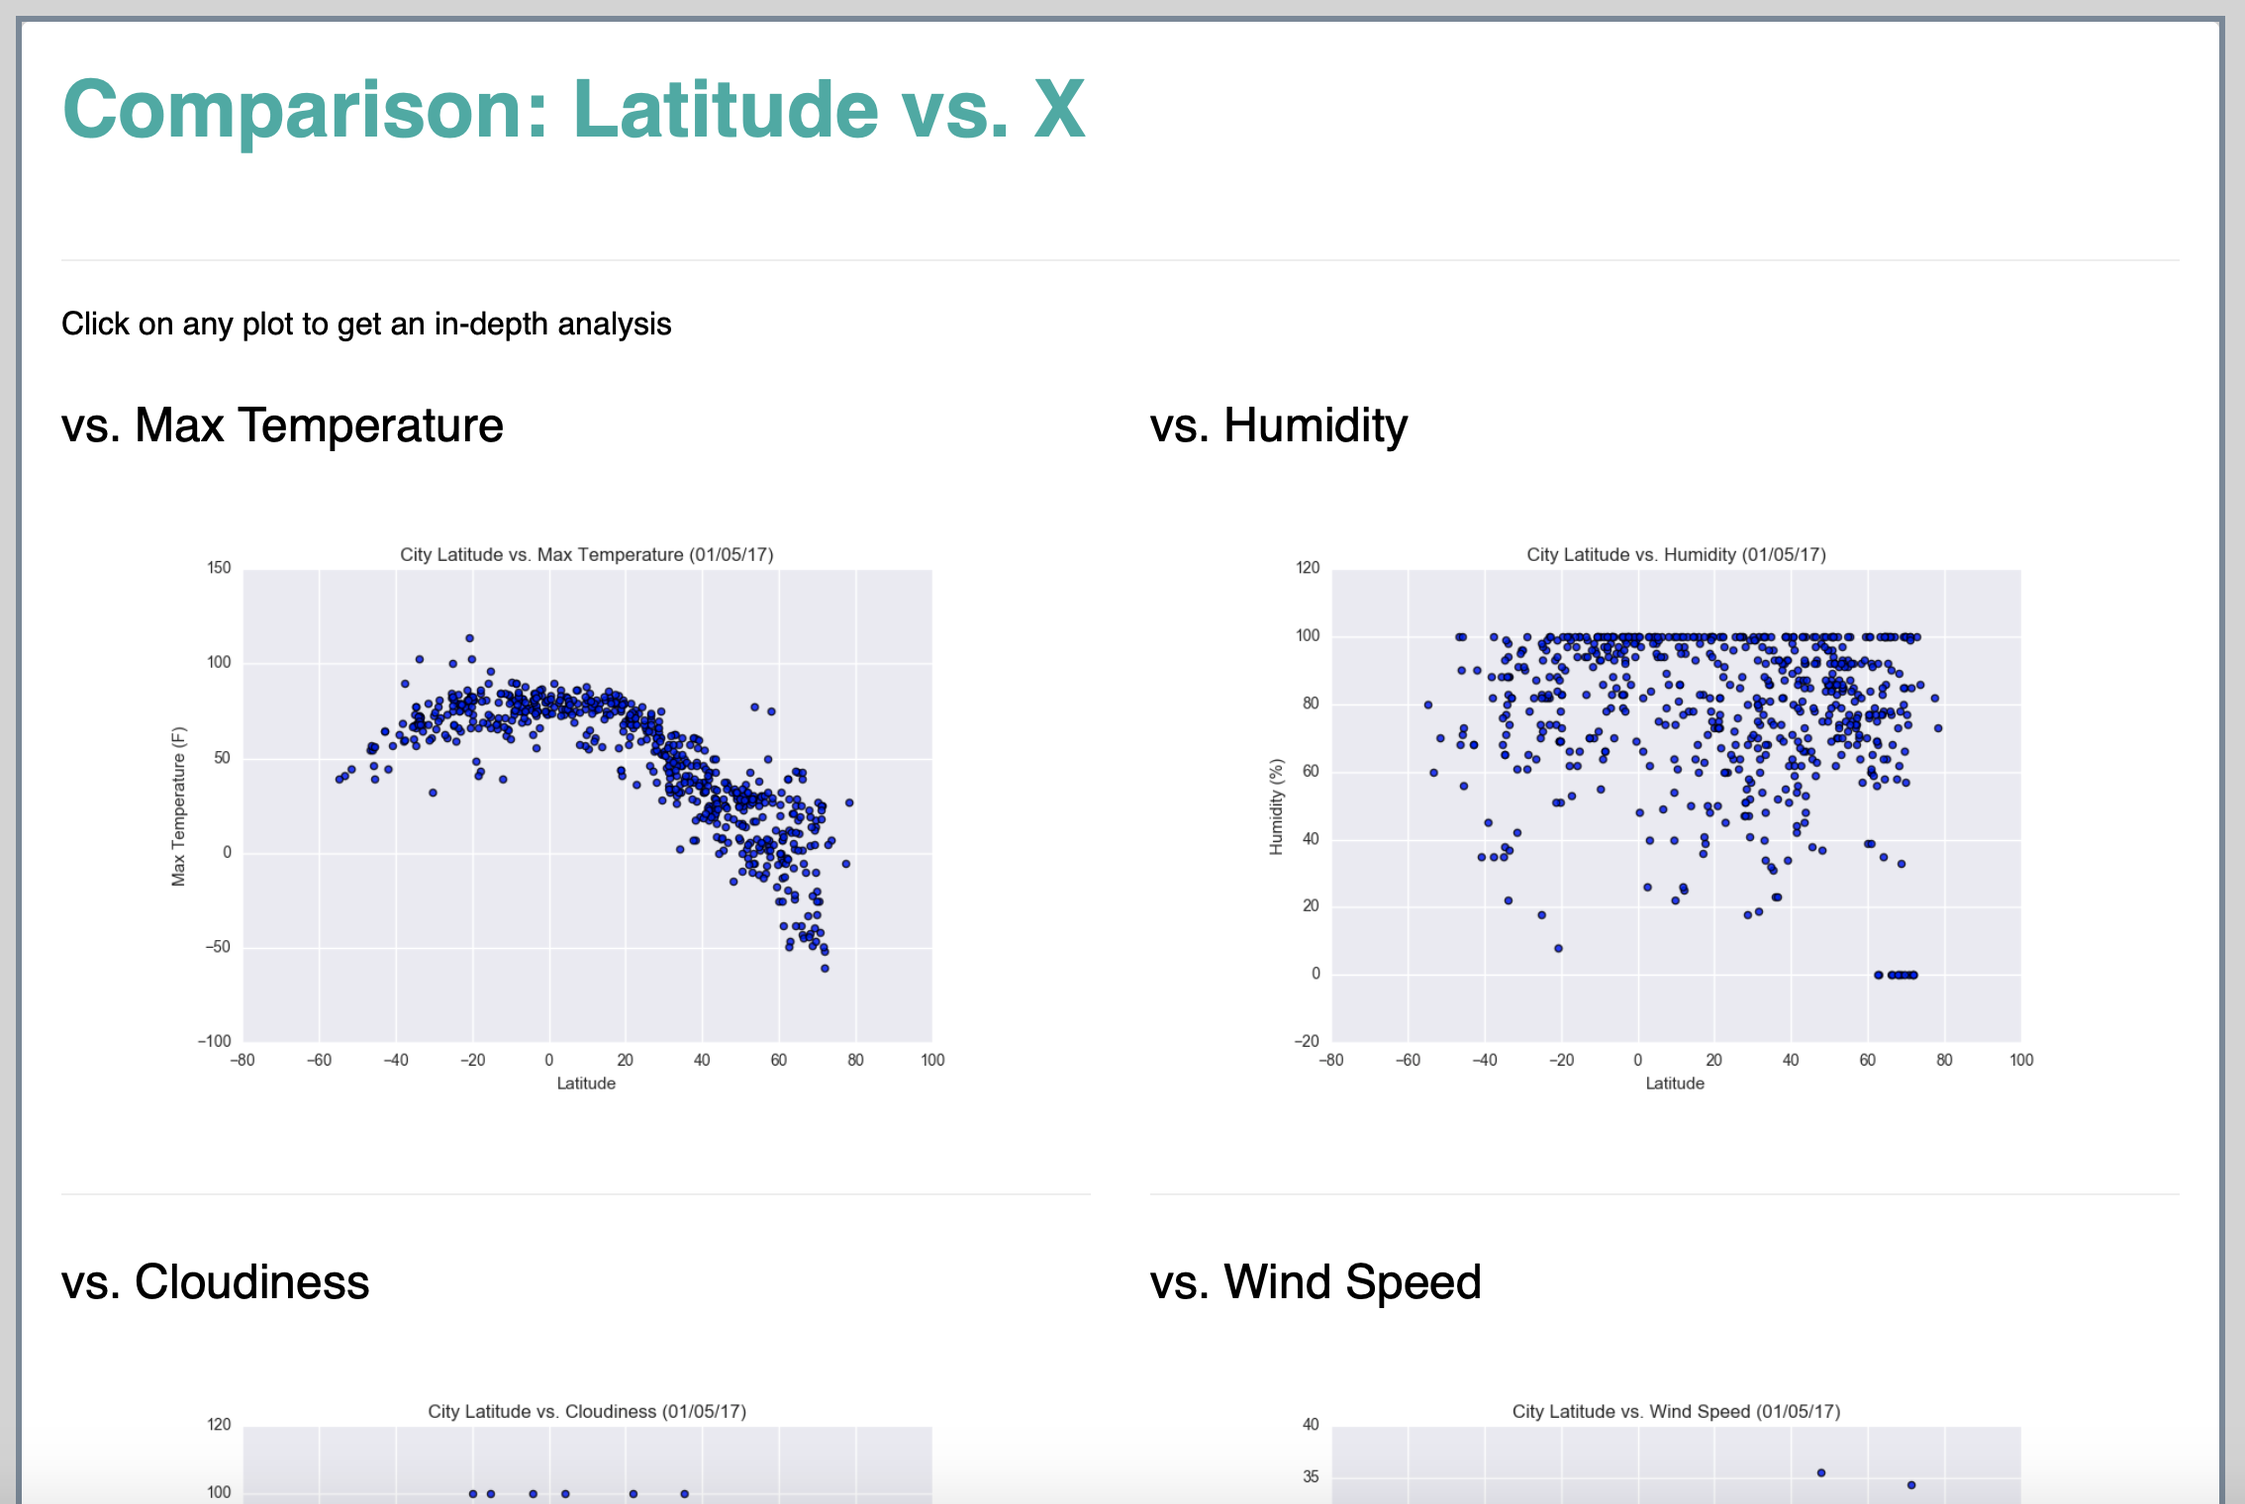
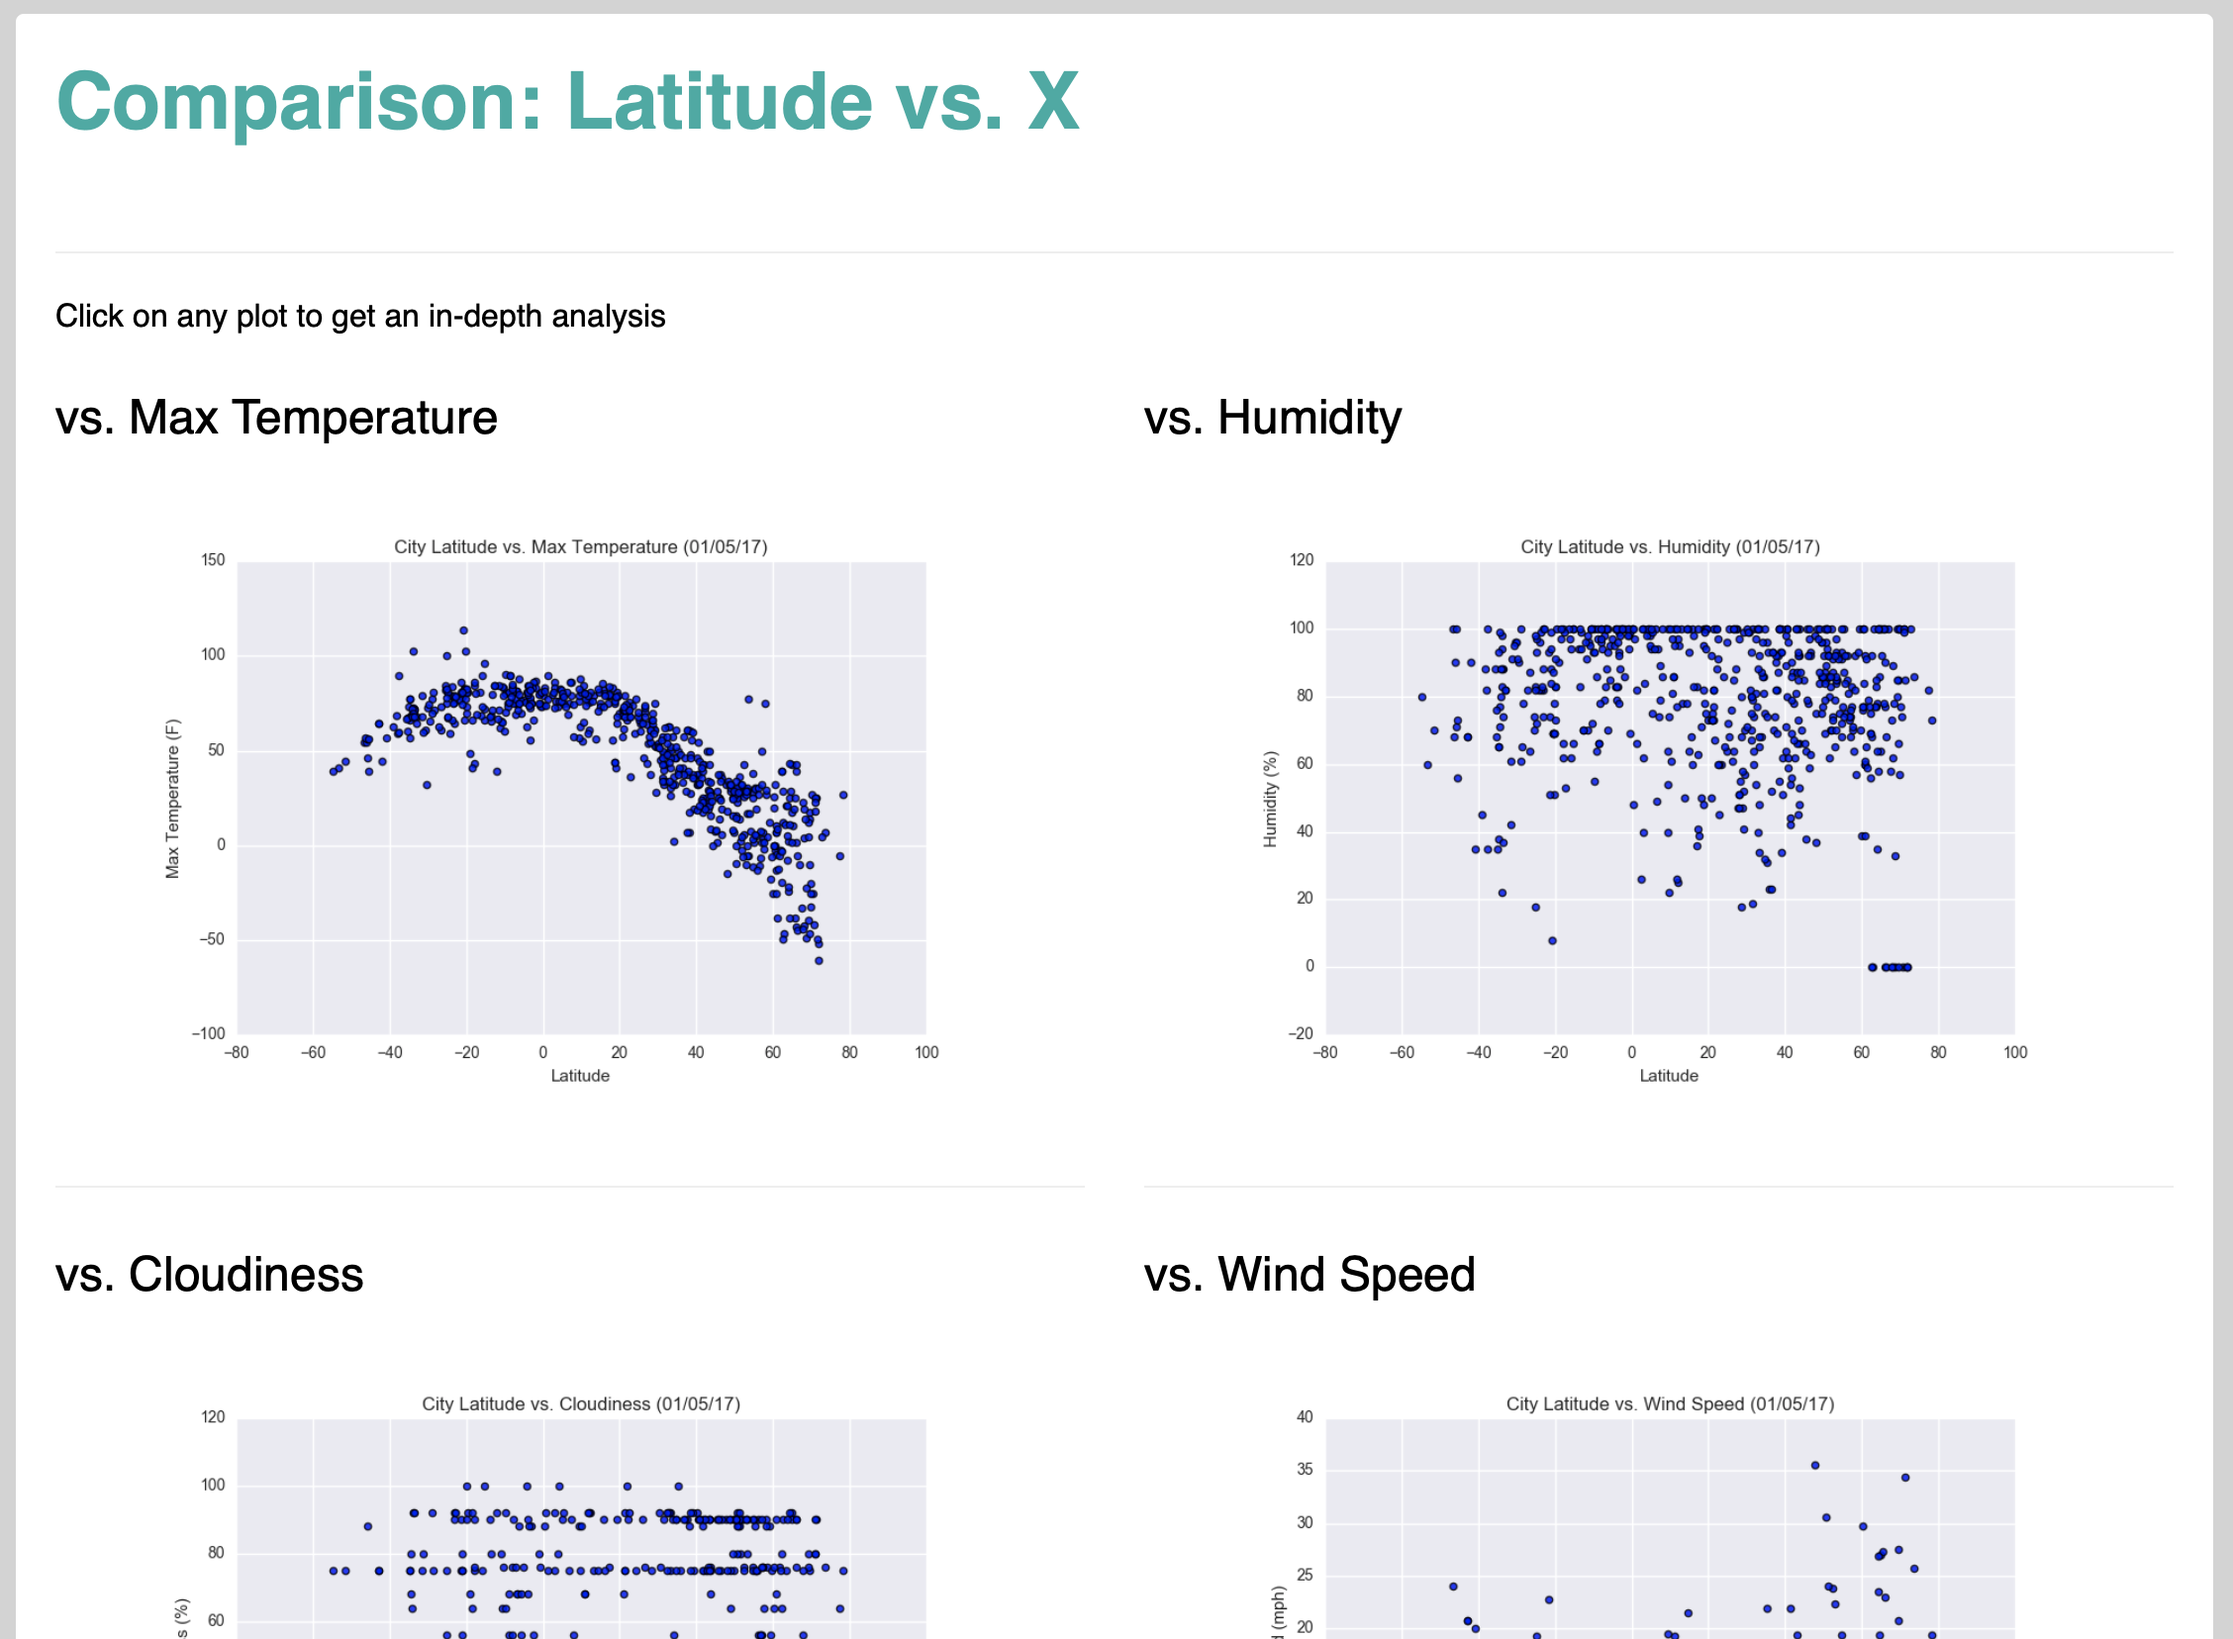
commit

diff --git a/WebVisualizations/pages/style.css b/WebVisualizations/pages/style.css
@@ -31,7 +31,8 @@ button {
 }
 
 .navbar {
-  padding-left: 50px;
+  padding-left: 30px;
+  padding-right: 30px;
   background-color: rgb(179, 60, 90);
   font-family: 'Helvetica';
   font-weight: normal;
@@ -43,40 +44,6 @@ button {
 /* =Box container
 ______________________________________ */
 
-#sumbox {
-	background-color: white;
-	box-shadow: 3px 5px 5px 3px gray;
-	width: 600px;
-	height: auto;
-  font-family: Gill Sans, sans-serif;
-  outline-style: solid;
-  outline-color: lightslategrey;
-  box-shadow: none;
-  margin-top: 50px; 
-  margin-left: auto;
-  margin-right: auto;
-	margin-bottom: 50px;
-	padding: 10px 20px 15px;
-	border-radius: 4px;
-}
-
-#visbox {
-  background-color: white;
-	box-shadow: 3px 5px 5px 3px gray;
-	width: 570px;
-	height: auto;
-  font-family: Gill Sans, sans-serif;
-  outline-style: solid;
-  outline-color: lightslategrey;
-  box-shadow: none;
-  margin-top: 50px; 
-  margin-left: auto;
-  margin-right: auto;
-	margin-bottom: 50px;
-	padding: 10px 20px 15px;
-	border-radius: 4px;
-}
-
 #comparisonbox {
   background-color: white;
 	box-shadow: 3px 5px 5px 3px gray;
@@ -84,15 +51,15 @@ ______________________________________ */
 	height: auto;
   font-family: Gill Sans, sans-serif;
   outline-style: solid;
-  outline-color: lightslategrey;
+  outline-width: 1px;
+  outline-color: lightgray;
   box-shadow: none;
   margin-top: 50px; 
-  margin-left: auto;
-  margin-right: auto;
 	margin-bottom: 50px;
 	padding: 10px 20px 15px;
 	border-radius: 4px;
 }
+
 
 #dataBox {
   background-color: white;
@@ -101,11 +68,10 @@ ______________________________________ */
 	height: auto;
   font-family: Gill Sans, sans-serif;
   outline-style: solid;
-  outline-color: lightslategrey;
+  outline-width: 1px;
+  outline-color: lightgray;
   box-shadow: none;
   margin-top: 50px; 
-  margin-left: auto;
-  margin-right: auto;
 	margin-bottom: 50px;
 	padding: 10px 20px 15px;
 	border-radius: 4px;

diff --git a/WebVisualizations/pages/Latvs._MaxTemp.html b/WebVisualizations/pages/Latvs._MaxTemp.html
@@ -54,23 +54,20 @@
   <div class="container">
     <div class="row">
             
-        <div class="col-lg-7 col-md-12">
-          <div class="box" id="sumbox">
+      <div class="col-md-6">
+        <div id="comparisonbox">
         
-            <h1 style="font-size:40px;">Max Temperature<h1> <br>
-              <img src="../Resources/images/Fig1.png" alt="Latitude vs. Max Temperature" width="600" height="400">
+            <h1 style="font-size:40px;">Maximum Temperature<h1> <br>
+              <img src="../Resources/images/Fig1.png" alt="Latitude vs. Max Temperature" width="100%" height="100%">
               <hr>
               <p class="category a">As expected, the weather becomes significantly warmer as one approaches the equator. However, it can be observed that southern hemisphere tends to be warmer this time of the year than the northern hemisphere. This may be due to the tilt of the earth at the time of the year this data was gathered.</p>
             </div>
           </div>
           
-
-
-          <div class="col-lg-5 col-md-12">
-            <div class="box" id="visbox">
+          <div class="col-md-6">
+            <div id="comparisonbox">
               <h2>Visualizations</h2> <br>
               <hr>
-
               
               <div class="row">
                 <div class="col-md-6 pad top">
@@ -102,10 +99,8 @@
             </div>
           </div>
 
-
-
         </div>
-        </div>
+      </div>
 
     </div>
   </div>

diff --git a/WebVisualizations/pages/index.html b/WebVisualizations/pages/index.html
@@ -53,12 +53,15 @@
         <!-- Creates the Overall Grid -->
   <div class="container">
     <div class="row">
+
+
+
             
-        <div class="col-lg-7 col-md-12">
-          <div class="box" id="sumbox">
+        <div class="col-md-6">
+          <div id="comparisonbox">
         
             <h1 style="font-size:40px;">Summary: Latitude vs. X<h1> <br>
-              <img src="../Resources/images/Fig1.png" alt="Latitude vs. Max Temperature" width="600" height="400">
+              <img src="../Resources/images/Fig1.png" alt="Latitude vs. Max Temperature" width="100%" height="100%">
               <hr>
               <p class="category a">The purpose of this project was to analyze how weather changes as you get closer to the
                 equator. The data used was pulled from the OpenWeatherMap API to assemble a dataset of 546 cities.</p>
@@ -71,8 +74,8 @@
           
 
 
-          <div class="col-lg-5 col-md-12">
-            <div class="box" id="visbox">
+          <div class="col-md-6">
+            <div id="comparisonbox">
               <h2>Visualizations</h2> <br>
               <hr>
 

diff --git a/WebVisualizations/pages/Latvs._WindSpeed.html b/WebVisualizations/pages/Latvs._WindSpeed.html
@@ -54,20 +54,18 @@
   <div class="container">
     <div class="row">
             
-        <div class="col-lg-7 col-md-12">
-          <div class="box" id="sumbox">
+      <div class="col-md-6">
+        <div id="comparisonbox">
         
             <h1 style="font-size:40px;">Wind Speed<h1> <br>
-              <img src="../Resources/images/Fig4.png" alt="Latitude vs. WindSpeed" width="600" height="400">
+              <img src="../Resources/images/Fig4.png" alt="Latitude vs. WindSpeed" width="100%" height="100%">
               <hr>
               <p class="category a">Wind speed appears to increase as we move away from the equator. However, our sample is not large enough to define a strong correlation. A dataset that includes cities closer to the poles would be needed to confirm a pattern.</p>
             </div>
           </div>
           
-
-
-          <div class="col-lg-5 col-md-12">
-            <div class="box" id="visbox">
+          <div class="col-md-6">
+            <div id="comparisonbox">
               <h2>Visualizations</h2> <br>
               <hr>
 

diff --git a/WebVisualizations/pages/Latvs._Cloudiness.html b/WebVisualizations/pages/Latvs._Cloudiness.html
@@ -54,20 +54,18 @@
   <div class="container">
     <div class="row">
             
-        <div class="col-lg-7 col-md-12">
-          <div class="box" id="sumbox">
+      <div class="col-md-6">
+        <div id="comparisonbox">
         
             <h1 style="font-size:40px;">Cloudiness<h1> <br>
-              <img src="../Resources/images/Fig3.png" alt="Latitude vs. Cloudiness" width="600" height="400">
+              <img src="../Resources/images/Fig3.png" alt="Latitude vs. Cloudiness" width="100%" height="100%">
               <hr>
               <p class="category a">Cloudiness percentages vary at different latitude values. Therefore, we conclude that there is no strong correlation between cloudiness and latitude.</p>
             </div>
           </div>
           
-
-
-          <div class="col-lg-5 col-md-12">
-            <div class="box" id="visbox">
+          <div class="col-md-6">
+            <div id="comparisonbox">
               <h2>Visualizations</h2> <br>
               <hr>
 

diff --git a/WebVisualizations/pages/Latvs._Humidity.html b/WebVisualizations/pages/Latvs._Humidity.html
@@ -54,20 +54,18 @@
   <div class="container">
     <div class="row">
             
-        <div class="col-lg-7 col-md-12">
-          <div class="box" id="sumbox">
+      <div class="col-md-6">
+        <div id="comparisonbox">
         
             <h1 style="font-size:40px;">Humidity<h1> <br>
-              <img src="../Resources/images/Fig2.png" alt="Latitude vs. Humidity" width="600" height="400">
+              <img src="../Resources/images/Fig2.png" alt="Latitude vs. Humidity" width="100%" height="100%">
               <hr>
               <p class="category a">Humidity percentages vary at different latitude values. Therefore, we conclude that there is no strong correlation between humidity and latitude.</p>
             </div>
           </div>
-          
-
-
-          <div class="col-lg-5 col-md-12">
-            <div class="box" id="visbox">
+        
+          <div class="col-md-6">
+            <div id="comparisonbox">
               <h2>Visualizations</h2> <br>
               <hr>
 

diff --git a/WebVisualizations/pages/Comparison.html b/WebVisualizations/pages/Comparison.html
@@ -54,7 +54,7 @@
 
         <!-- Creates the Overall Grid -->
         <div class="container">
-          <div class="box" id="comparisonbox">
+          <div id="comparisonbox">
             <div class="row">
               <div class="col-md-12">
             <h1 style="font-size:40px;">Comparison: Latitude vs. X</h1> <br>

diff --git a/WebVisualizations/pages/Data.html b/WebVisualizations/pages/Data.html
@@ -54,7 +54,7 @@
 
 
   <div class="container">
-    <div class="box" id="dataBox">
+    <div id="dataBox">
       <div class="row">
         <div class="col-md-12">
         <h1 class="title">Data</h1>
